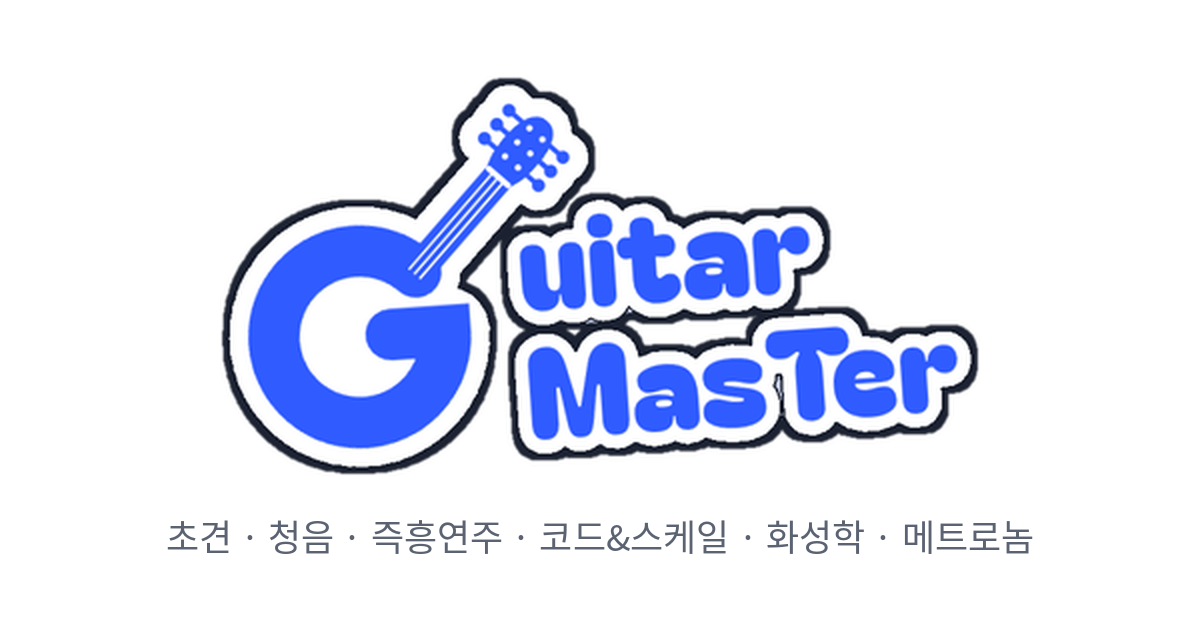
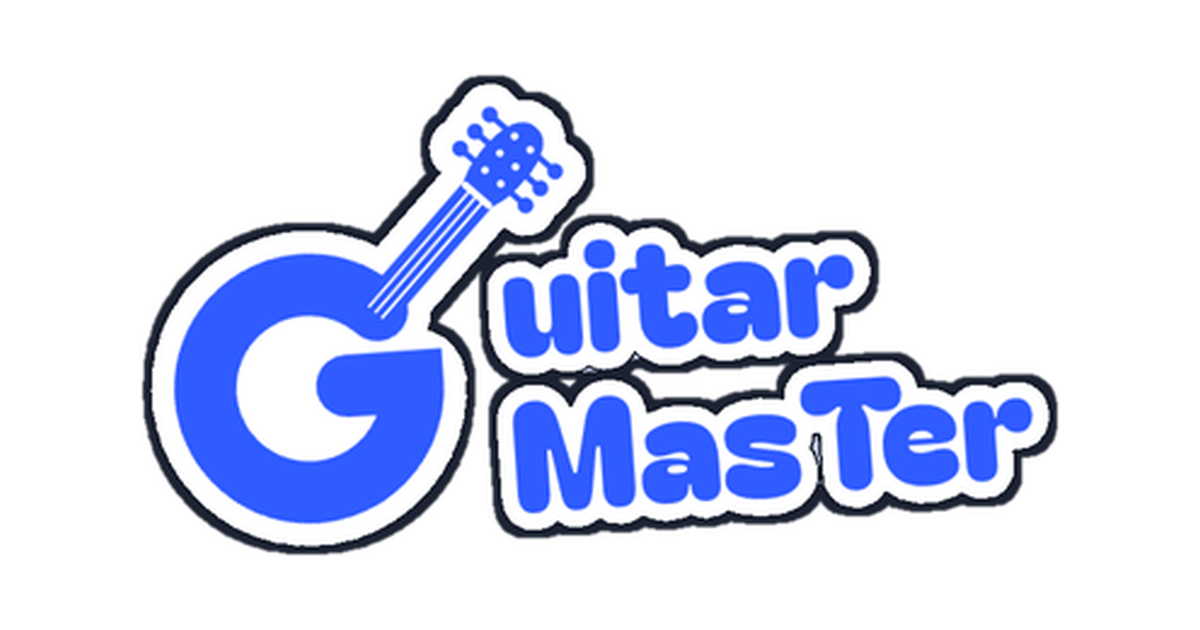
미리보기 그림: 글줄 빼고 로고만 크게 가운데 (K 참고 그림대로 1200×630 비율)
Claude-Session: https://claude.ai/code/session_01Awb27ZYpto8rJxu2mnU4mg

Changed region(s): [[0.0925, 0.1206, 0.8942, 0.9048]]

diff --git a/improv/index.html b/improv/index.html
@@ -11,7 +11,7 @@
 <meta property="og:title" content="즉흥연주 | 기타MT">
 <meta property="og:description" content="유명한 코드 진행을 반복해서 들으며 초견과 즉흥연주를 연습하는 페이지 (마이너 블루스 · 메이저 블루스 · 재즈 블루스)">
 <meta property="og:url" content="https://guitarmt.com/improv/">
-<meta property="og:image" content="https://guitarmt.com/og.png?v=4">
+<meta property="og:image" content="https://guitarmt.com/og.png?v=5">
 <meta property="og:image:width" content="1200">
 <meta property="og:image:height" content="630">
 <meta name="twitter:card" content="summary_large_image">

diff --git a/harmony/index.html b/harmony/index.html
@@ -11,7 +11,7 @@
 <meta property="og:title" content="화성학 | 기타MT">
 <meta property="og:description" content="화성학 문제 — 음이름 · ♯ 키 · ♭ 키 · 인터벌 · 코드 · 스케일 · 다이어토닉 코드를 계속 맞히며 익히기">
 <meta property="og:url" content="https://guitarmt.com/harmony/">
-<meta property="og:image" content="https://guitarmt.com/og.png?v=4">
+<meta property="og:image" content="https://guitarmt.com/og.png?v=5">
 <meta property="og:image:width" content="1200">
 <meta property="og:image:height" content="630">
 <meta name="twitter:card" content="summary_large_image">

diff --git a/chordear/index.html b/chordear/index.html
@@ -11,7 +11,7 @@
 <meta property="og:title" content="코드 청음 | 기타MT">
 <meta property="og:description" content="코드 청음 연습 — 코드 종류(메이저 · 마이너 · sus4 · dim · aug, Hard는 7th)와 코드 진행을 듣고 맞히기">
 <meta property="og:url" content="https://guitarmt.com/chordear/">
-<meta property="og:image" content="https://guitarmt.com/og.png?v=4">
+<meta property="og:image" content="https://guitarmt.com/og.png?v=5">
 <meta property="og:image:width" content="1200">
 <meta property="og:image:height" content="630">
 <meta name="twitter:card" content="summary_large_image">

diff --git a/chordscale/index.html b/chordscale/index.html
@@ -11,7 +11,7 @@
 <meta property="og:title" content="코드&amp;스케일 | 기타MT">
 <meta property="og:description" content="코드 찾기 · 코드 사전 · 트라이어드 · 보이싱 · 스케일을 기타 지판에서 보고 듣기">
 <meta property="og:url" content="https://guitarmt.com/chordscale/">
-<meta property="og:image" content="https://guitarmt.com/og.png?v=4">
+<meta property="og:image" content="https://guitarmt.com/og.png?v=5">
 <meta property="og:image:width" content="1200">
 <meta property="og:image:height" content="630">
 <meta name="twitter:card" content="summary_large_image">

diff --git a/ear/index.html b/ear/index.html
@@ -11,7 +11,7 @@
 <meta property="og:title" content="멜로디 청음 | 기타MT">
 <meta property="og:description" content="4분음표 한 마디를 듣고 음이름을 맞히는 청음 연습 — 2도~6도 도약 단계, Hard는 반음계까지">
 <meta property="og:url" content="https://guitarmt.com/ear/">
-<meta property="og:image" content="https://guitarmt.com/og.png?v=4">
+<meta property="og:image" content="https://guitarmt.com/og.png?v=5">
 <meta property="og:image:width" content="1200">
 <meta property="og:image:height" content="630">
 <meta name="twitter:card" content="summary_large_image">

diff --git a/chord/index.html b/chord/index.html
@@ -11,7 +11,7 @@
 <meta property="og:title" content="코드 초견 | 기타MT">
 <meta property="og:description" content="코드 진행을 보고 박자에 맞춰 쳐 본 다음, 피아노 소리로 정답을 확인하는 코드 초견 연습">
 <meta property="og:url" content="https://guitarmt.com/chord/">
-<meta property="og:image" content="https://guitarmt.com/og.png?v=4">
+<meta property="og:image" content="https://guitarmt.com/og.png?v=5">
 <meta property="og:image:width" content="1200">
 <meta property="og:image:height" content="630">
 <meta name="twitter:card" content="summary_large_image">

diff --git a/index.html b/index.html
@@ -13,7 +13,7 @@
 <meta property="og:title" content="기타MT">
 <meta property="og:description" content="기타MT — 무료 기타 연습 사이트. 멜로디·코드 초견, 청음, 즉흥연주, 코드&amp;스케일, 화성학, 메트로놈">
 <meta property="og:url" content="https://guitarmt.com/">
-<meta property="og:image" content="https://guitarmt.com/og.png?v=4">
+<meta property="og:image" content="https://guitarmt.com/og.png?v=5">
 <meta property="og:image:width" content="1200">
 <meta property="og:image:height" content="630">
 <meta name="twitter:card" content="summary_large_image">

diff --git a/metronome/index.html b/metronome/index.html
@@ -11,7 +11,7 @@
 <meta property="og:title" content="메트로놈 | 기타MT">
 <meta property="og:description" content="빠르기·박자·강박·음표 나누기·탭 템포가 있는 무료 온라인 메트로놈">
 <meta property="og:url" content="https://guitarmt.com/metronome/">
-<meta property="og:image" content="https://guitarmt.com/og.png?v=4">
+<meta property="og:image" content="https://guitarmt.com/og.png?v=5">
 <meta property="og:image:width" content="1200">
 <meta property="og:image:height" content="630">
 <meta name="twitter:card" content="summary_large_image">

diff --git a/privacy/index.html b/privacy/index.html
@@ -11,7 +11,7 @@
 <meta property="og:title" content="개인정보 처리방침 | 기타MT">
 <meta property="og:description" content="기타MT 개인정보 처리방침과 문의 연락처">
 <meta property="og:url" content="https://guitarmt.com/privacy/">
-<meta property="og:image" content="https://guitarmt.com/og.png?v=4">
+<meta property="og:image" content="https://guitarmt.com/og.png?v=5">
 <meta property="og:image:width" content="1200">
 <meta property="og:image:height" content="630">
 <meta name="twitter:card" content="summary_large_image">
